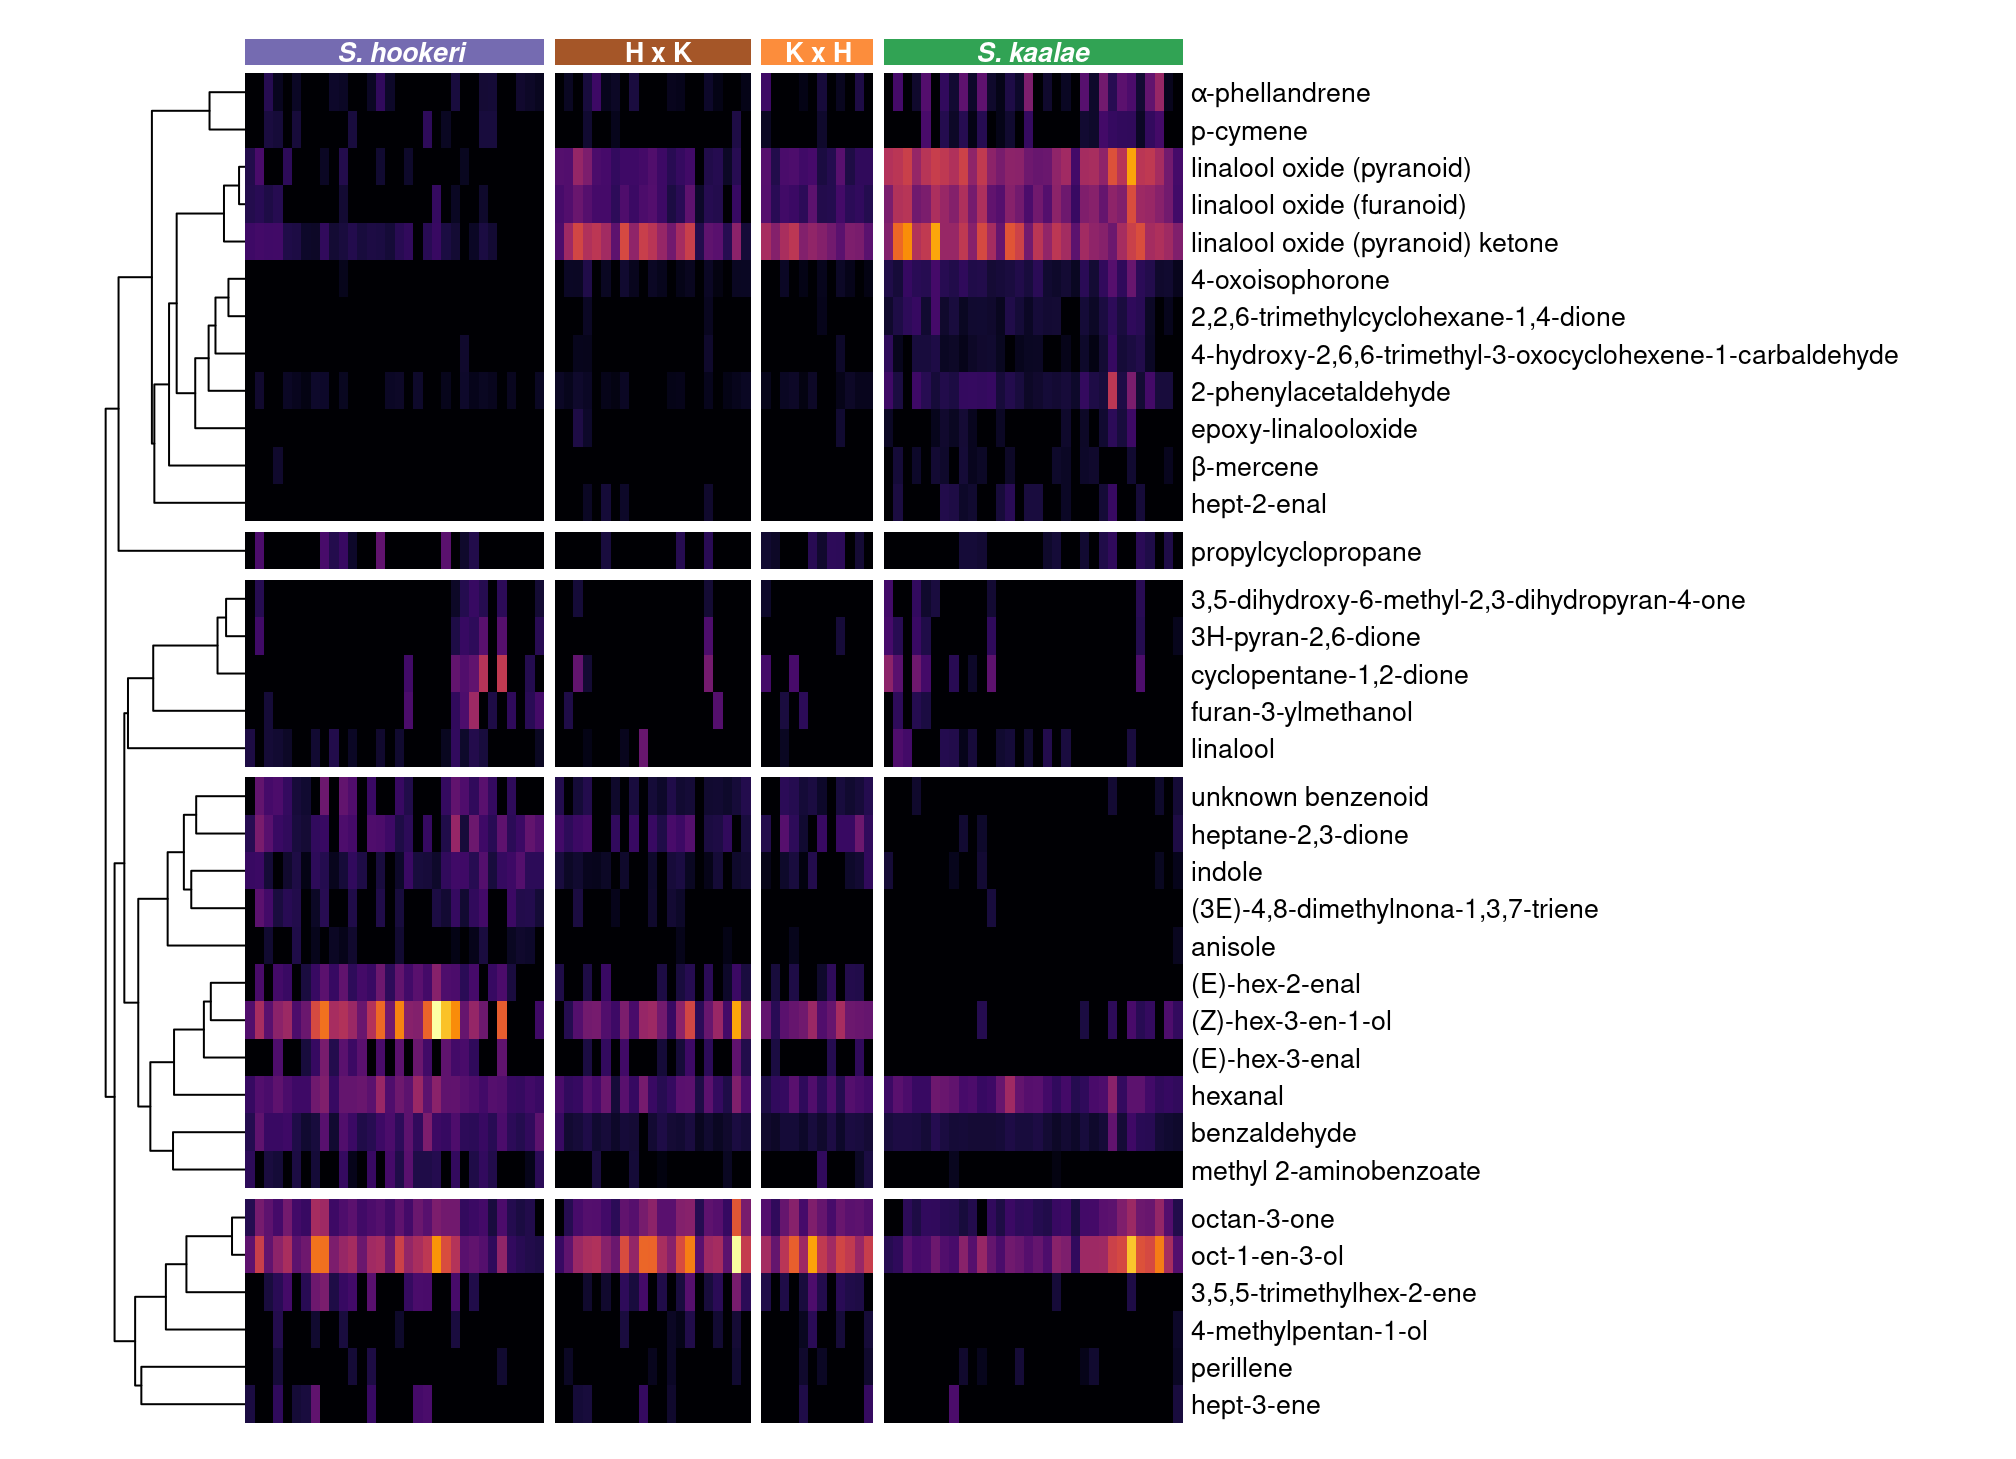
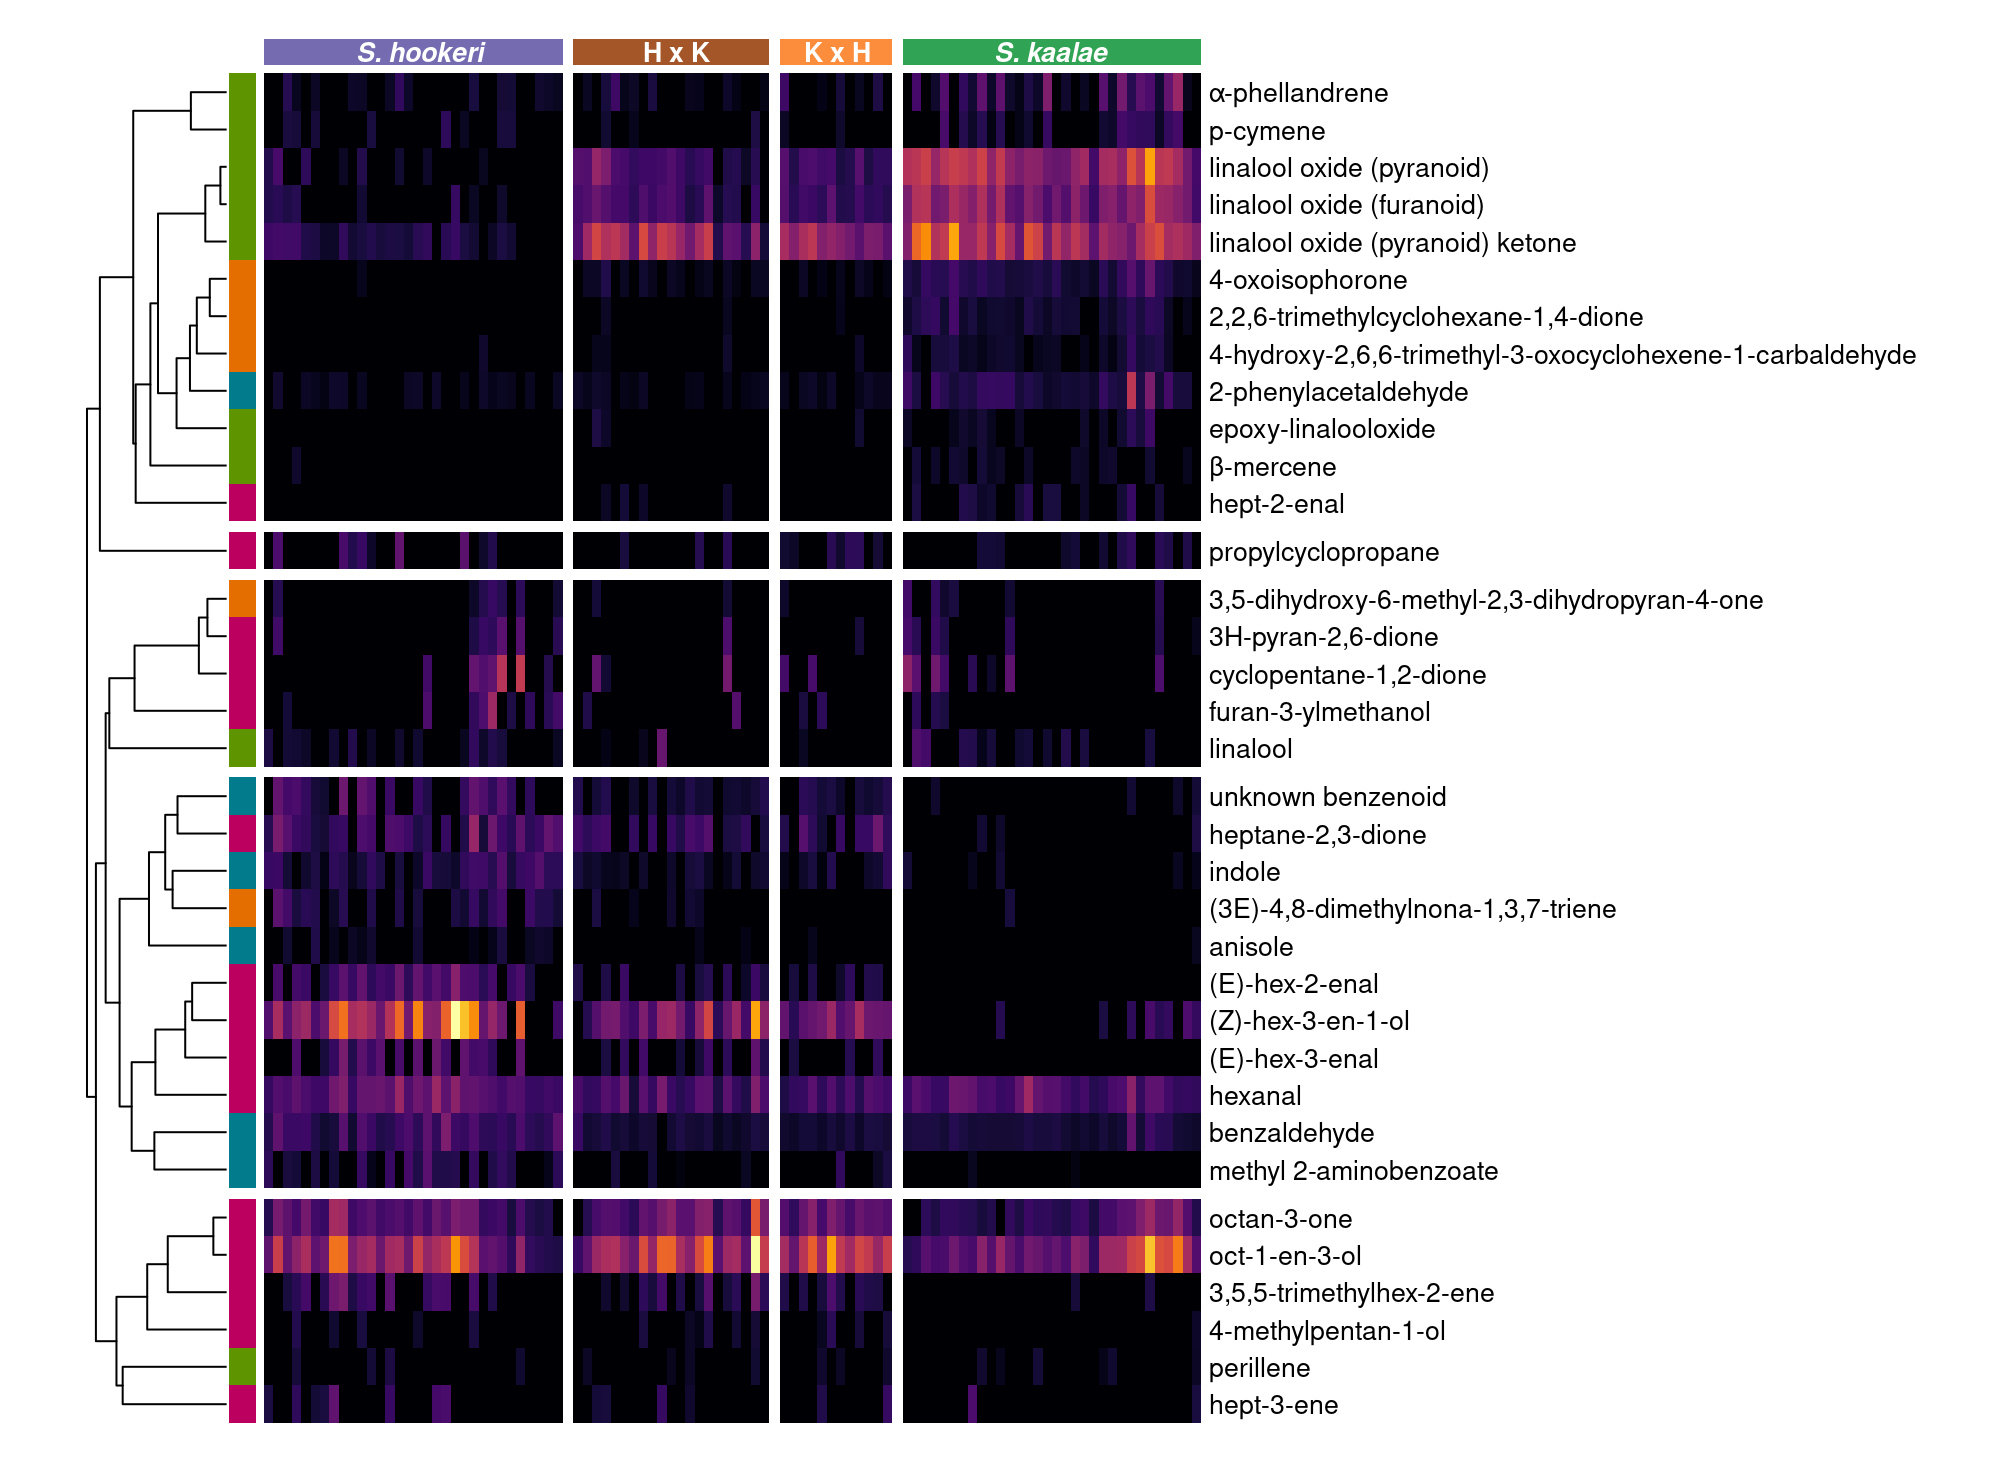
compound class on heatmap

Changed region(s): [[0.0312, 0.0308, 0.9375, 0.987]]

diff --git a/hybrids_cut.html b/hybrids_cut.html
@@ -11,7 +11,7 @@
 
 <meta name="author" content="John Powers" />
 
-<meta name="date" content="2024-12-04" />
+<meta name="date" content="2025-04-03" />
 
 <title>Floral scent of Schiedea kaalae x hookeri hybrids</title>
 
@@ -254,7 +254,7 @@ div.tocify {
 hookeri</em> hybrids</h1>
 <h4 class="author"><a href="http://sites.uci.edu/powers/">John
 Powers</a></h4>
-<h4 class="date">2024-12-04</h4>
+<h4 class="date">2025-04-03</h4>
 
 </div>
 
@@ -759,7 +759,10 @@ kable(plants.parent, caption=&quot;parent plants&quot;)</code></pre>
 </div>
 <div id="heatmap" class="section level1">
 <h1>Heatmap</h1>
-<pre class="r"><code>#1 dimensional NMDS for ordering samples in heatmap
+<pre class="r"><code>class_subs &lt;- c(&quot;Irregular terpene&quot;=&quot;Other terpenoid&quot;, &quot;Monoterpene&quot;=&quot;Monoterpenoid&quot;)
+classcolr &lt;- c(Aliphatic=&quot;#BC0060&quot;,Benzenoid=&quot;#027B8C&quot;,Monoterpenoid=&quot;#5d9400&quot;,`Other terpenoid`=&quot;#E56E00&quot;, Sesquiterpene=&quot;#000000&quot;)
+
+#1 dimensional NMDS for ordering samples in heatmap
 set.seed(1)
 mdshybn1 &lt;- metaMDS(decostand(fvolhybn.plants, method=&quot;hellinger&quot;),k=1,try=200, autotransform=F, trace=0)
 srt &lt;- order(svhybn.plants$SpeciesR, -mdshybn1$points, decreasing=T)
@@ -780,8 +783,10 @@ ph &lt;- pheatmap(heat.mat,
          clustering_callback = function(hc, ...){dendsort(hc, type=&quot;average&quot;)},
          scale=&quot;none&quot;, color=inferno(512),
          annotation_col = data.frame(Species=as.integer(svhybn.plants$SpeciesR)[srt], row.names=rownames(fvolhybn.plants)[srt]), 
-         annotation_colors = list(Species=hybcolr), annotation_names_col = F,
+         annotation_colors = list(Species=hybcolr, Class=classcolr), annotation_names_col = F,
          gaps_col = which(as.logical(diff(as.integer(svhybn.plants$SpeciesR)[srt]))),
+         annotation_row = data.frame(Class=chemsf$Class %&gt;% str_remove(&quot;s$&quot;) %&gt;% recode(!!!class_subs) %&gt;% factor(), 
+                                     row.names = chemsf$shortname), annotation_names_row = F,
    cellwidth = 3.5, cellheight = 14, fontsize = 10, border_color = NA, legend=F, legend_breaks=NA, annotation_legend=F, cutree_rows=5
 )
 downViewport(&quot;col_annotation.3-3-3-3&quot;)
@@ -1162,13 +1167,12 @@ vol_floor &lt;- 1e-5 #avoid negative estimates, 10x less than smallest positive 
 tests.vols %&gt;%  mutate(lfc_species = log2(pmax(`S. kaalae`,vol_floor)/pmax(`S. hookeri`,vol_floor)), 
                        lfc_hybrids = log2(hyb.mean/par.mean)) %&gt;% ungroup() %&gt;% 
   left_join(chemsf %&gt;% mutate(variable=fct_recode(Name, !!!multiline))) %&gt;% 
-  mutate(Class = Class %&gt;% str_remove(&quot;s$&quot;) %&gt;% 
-           recode(&quot;Irregular terpene&quot;=&quot;Other terpenoid&quot;, &quot;Monoterpene&quot;=&quot;Monoterpenoid&quot;) %&gt;% factor()) %&gt;% 
+  mutate(Class = Class %&gt;% str_remove(&quot;s$&quot;) %&gt;% recode(!!!class_subs) %&gt;% factor()) %&gt;% 
   ggplot(aes(x=lfc_species, y=lfc_hybrids, color=Class)) + 
   geom_vline(xintercept=0, color=&quot;grey40&quot;) + geom_hline(yintercept=0, color=&quot;grey40&quot;) + 
   geom_point(aes(shape = parmean.p.value &lt; 0.05), size=2.5) + scale_shape_manual(values=c(1,19), guide=&quot;none&quot;)+
   geom_text_repel(aes(label=variable), size=3.5, min.segment.length=5, show.legend = F)  +
-  scale_color_manual(values=c(&quot;#BC0060&quot;,&quot;#027B8C&quot;,&quot;#5d9400&quot;,&quot;#E56E00&quot;)) +
+  scale_color_manual(values=classcolr) +
   scale_x_continuous(expand=expansion(c(0.1, 0.25)))+ 
   theme_minimal() + theme(panel.grid.minor = element_blank(), legend.position = &quot;top&quot;) +
   labs(x=&quot;log2 fold change in emissions between parents (S. kaalae / S. hookeri)&quot;,
